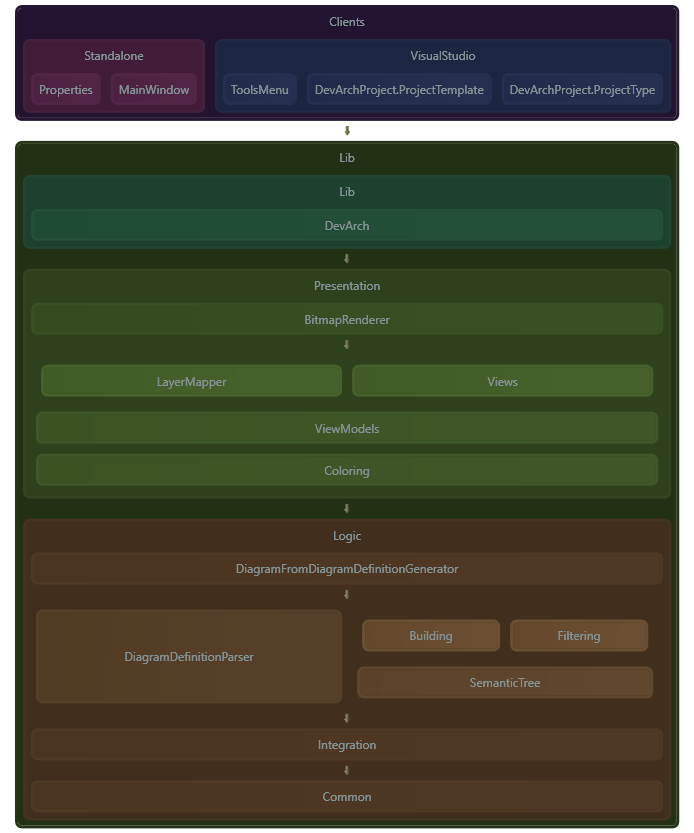
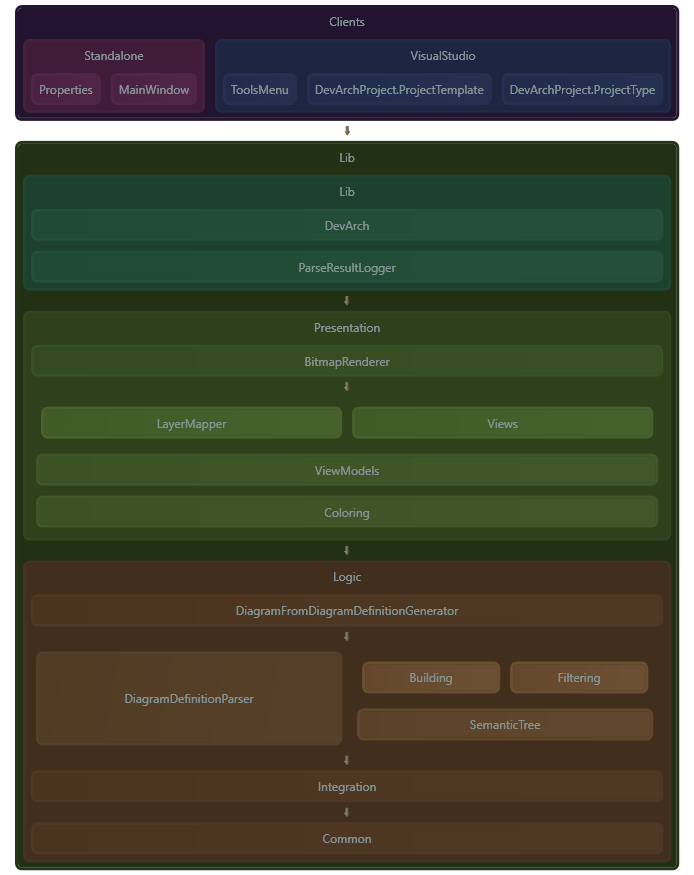
Writes generation results to output window

diff --git a/Lib/Logic/DiagramDefinitionParser.cs b/Lib/Logic/DiagramDefinitionParser.cs
@@ -1,6 +1,7 @@
 using System;
 using System.Collections.Generic;
 using System.Linq;
+using System.Threading.Tasks;
 using System.Xml;
 using EnvDTE;
 using Logic.Integration;
@@ -9,7 +10,7 @@ namespace Logic
 {
     public static class DiagramDefinitionParser
     {
-        public static IEnumerable<DiagramDefinition> GetDiagramDefinitionsFromSolution(AdvancedSolution solution)
+        public static IReadOnlyCollection<DiagramDefinitionParseResult> GetDiagramDefinitionsFromSolution(AdvancedSolution solution)
         {
             var archProjects = solution.FindArchProjects();
             if (archProjects.Count != 1) throw new NoArchProjectsFound();
@@ -19,36 +20,58 @@ namespace Logic
             var items =
                 projectItems.Where(d => d.Name.EndsWith(".diagramdefinition")).ToList();
 
-            var list = new List<DiagramDefinition>();
+            var list = new List<DiagramDefinitionParseResult>();
             foreach (var item in items)
             {
                 var path = item.FileNames[0];
                 var name = item.Name;
-                var definition = ParseDiagramDefinition(path, name);
-                //Insert directory before output path
-                definition.Output.Path =solution.Directory() + "\\" + definition.Output.Path;
-                list.Add(definition);
+                try
+                {
+                    var definition = ParseDiagramDefinition(path, name);
+                    //Insert directory before output path
+                    definition.Output.Path = solution.Directory() + "\\" + definition.Output.Path;
+                    list.Add(new DiagramDefinitionParseResult(definition));
+                }
+                catch (Exception e)
+                {
+                    list.Add(new DiagramDefinitionParseResult(new Exception(name + "- " + e.Message)));
+                }
             }
             return list;
+        }
+
+        public static XmlElement RequireTag(this XmlNode doc, string tagName)
+        {
+            var x = doc[tagName];
+            if(x == null)
+                throw new Exception($"Unable to find {tagName} tag");
+            return x;
         }
 
         private static DiagramDefinition ParseDiagramDefinition(string path, string name)
         {
             var xmlDoc = new XmlDocument();
             xmlDoc.Load(path);
-            var modelRoot = xmlDoc["Diagram"];
-            if (modelRoot == null)
-                throw new Exception("Unable to find diagram tag in diagram definition");
 
-            var scopeHolderNode = modelRoot["Scope"];
+            var modelRoot = xmlDoc.RequireTag("Diagram");
+            var scopeHolderNode = modelRoot.RequireTag("Scope");
+            var output = modelRoot.RequireTag("Output");
+            // Can be null
+            var filtersNode = modelRoot["Filters"]; 
+
+            // Dependency direction
             var dependencyAttributeValue = modelRoot.Attributes?.GetNamedItem("DependencyDirection")?.Value;
             var dependencyDown = true;
             if (dependencyAttributeValue != null)
                 dependencyDown = dependencyAttributeValue.Equals("Down");
+
+            // Scope
             var scope = ParseScope(scopeHolderNode);
-            var output = modelRoot["Output"];
+
+            // OutputSettings
             var outputSettings = ParseOutputSettings(output);
-            var filtersNode = modelRoot["Filters"];
+
+            // Filters
             var filters = new Filters();
             if (filtersNode?.ChildNodes != null)
             {
@@ -68,12 +91,13 @@ namespace Logic
             int number;
             int.TryParse(filter.InnerText, out number);
             if (fname == "RemoveTests") filters.RemoveTests = on;
-            if (fname == "RemoveSinglePaths") filters.RemoveSinglePaths = on;
-            if (fname == "RemoveExceptions") filters.RemoveExceptions = on;
-            if (fname == "FindNamingPatterns") filters.FindNamingPatterns = on;
-            if (fname == "MaxDepth") filters.MaxDepth = number;
-            if (fname == "MinMethods") filters.MinMethods = number;
-            if (fname == "MinReferences") filters.MinReferences = number;
+            else if (fname == "RemoveSinglePaths") filters.RemoveSinglePaths = on;
+            else if (fname == "RemoveExceptions") filters.RemoveExceptions = on;
+            else if (fname == "FindNamingPatterns") filters.FindNamingPatterns = on;
+            else if (fname == "MaxDepth") filters.MaxDepth = number;
+            else if (fname == "MinMethods") filters.MinMethods = number;
+            else if (fname == "MinReferences") filters.MinReferences = number;
+            else throw new Exception("Unrecognized filter: " + fname);
         }
 
         private static OutputSettings ParseOutputSettings(XmlNode output)
@@ -118,6 +142,26 @@ namespace Logic
             if (scope is NamedScope)
                 (scope as NamedScope).Name = scopeNode?.Attributes?[0].Value;
             return scope;
+        }
+    }
+
+    public struct DiagramDefinitionParseResult
+    {
+        public bool Succeed;
+        public DiagramDefinition Definition;
+        public Exception Exception;
+
+        public DiagramDefinitionParseResult(Exception exception)
+        {
+            Exception = exception;
+            Succeed = false;
+            Definition = null;
+        }
+        public DiagramDefinitionParseResult(DiagramDefinition definition)
+        {
+            Definition = definition;
+            Succeed = true;
+            Exception = null;
         }
     }
 

diff --git a/Lib/DevArch.cs b/Lib/DevArch.cs
@@ -1,7 +1,10 @@
 using System;
+using System.Collections.Generic;
 using System.Linq;
 using EnvDTE;
+using EnvDTE80;
 using Logic;
+using Logic.Common;
 using Logic.Integration;
 using Presentation;
 
@@ -14,13 +17,19 @@ namespace Lib
             var solution = new AdvancedSolution(enivorment);
             var modelGen = new DiagramFromDiagramDefinitionGenerator(solution);
             var modelDefs = modelGen.GetDiagramDefinitions();
-            foreach (var modelDef in modelDefs)
+            var resultLogger = new ParseResultLogger(enivorment,modelDefs);
+            resultLogger.PrintErrors();
+
+            var definitions = modelDefs.Where(x => x.Succeed).SelectList(x => x.Definition);
+            foreach (var modelDef in definitions)
             {
                 var tree = modelGen.GenerateDiagram(modelDef);
                 if (!tree.Childs.Any())
                     throw new NoClassesFoundException();
                 BitmapRenderer.RenderTreeToBitmap(tree,modelDef.DependencyDown, modelDef.Output);
+                resultLogger.PrintCreated(modelDef.Output.Path);
             }
+            resultLogger.PrintSuccess();
         }
 
         public static void RenderCompleteDiagramToView(_DTE enivorment,ref ArchView view)
@@ -30,6 +39,51 @@ namespace Lib
             var tree = modelGen.GenerateDiagram(DiagramDefinition.RootDefault);
             var viewModel = LayerMapper.TreeModelToArchViewModel(tree,true);
             view.Diagram.RenderModel(viewModel);
+        }
+    }
+
+    class ParseResultLogger
+    {
+        private readonly IReadOnlyCollection<DiagramDefinitionParseResult> _results;
+        private readonly OutputWindowPane _output;
+
+        public ParseResultLogger(_DTE environment,IReadOnlyCollection<DiagramDefinitionParseResult> results)
+        {
+            _results = results;
+            var dte2 = environment as DTE2;
+            if (dte2 == null)
+                return;
+
+            var outputWindow = dte2.ToolWindows.OutputWindow;
+            _output = outputWindow.OutputWindowPanes.Item("DevArch") ??
+                      outputWindow.OutputWindowPanes.Add("DevArch");
+            _output.Activate();
+            PrintLine("Generating diagrams...");
+        }
+
+        void PrintLine(string s)
+        {
+            _output.OutputString(s + "\n");
+        }
+
+        public void PrintErrors()
+        {
+            var errorNous = _results.Where(x => !x.Succeed);
+            foreach (var result in errorNous)
+                PrintLine("Error: " + result.Exception.Message);
+            PrintLine("------------------");
+        }
+
+        public void PrintCreated(string path)
+        {
+            PrintLine("Created " + path);
+        }
+        
+        public void PrintSuccess()
+        {
+            PrintLine("------------------");
+            PrintLine($"========== Diagrams: {_results.Count(x => x.Succeed)} Created, " +
+                      $"{ _results.Count(x => !x.Succeed)} not created ==========");
         }
     }
 

diff --git a/Lib/Logic/Building/ClassTreeBuilder.cs b/Lib/Logic/Building/ClassTreeBuilder.cs
@@ -1,6 +1,7 @@
 using System;
 using System.Collections.Generic;
 using System.Linq;
+using Logic.Common;
 using Logic.SemanticTree;
 using Microsoft.CodeAnalysis;
 
@@ -25,7 +26,7 @@ namespace Logic.Building
                         throw new Exception("Unable to find document: " + documentName);
                 }
 
-                var semanticModels = documents.Select(d => d.GetSemanticModelAsync().Result).ToList();
+                var semanticModels = documents.SelectList(d => d.GetSemanticModelAsync().Result);
                 var classes = SemanticModelWalker.GetClassesInModels(semanticModels);
                 if (!classes.Any())
                     continue;

diff --git a/Lib/Logic/Common/EnumerableExtensions.cs b/Lib/Logic/Common/EnumerableExtensions.cs
@@ -6,12 +6,17 @@ using System.Threading.Tasks;
 
 namespace Logic.Common
 {
-    static class EnumerableExtensions
+    public static class EnumerableExtensions
     {
         public static bool ContainsAnyFrom<T>(this IEnumerable<T> set, IEnumerable<T> set2)
         {
             return set.Intersect(set2).Any();
         }
+
+        public static IReadOnlyCollection<TResult> SelectList<TResult,TSource>(this IEnumerable<TSource> input,  Func<TSource,TResult> selector)
+        {
+            return input.Select(selector).ToList();
+        } 
 
 
         public static IEnumerable<T> Except<T>(this IEnumerable<T> set, T t)

diff --git a/Lib/Logic/DiagramFromDiagramDefinitionGenerator.cs b/Lib/Logic/DiagramFromDiagramDefinitionGenerator.cs
@@ -1,6 +1,5 @@
 using System.Collections.Generic;
 using System.Linq;
-using EnvDTE;
 using Logic.Building;
 using Logic.Filtering;
 using Logic.Integration;
@@ -16,7 +15,7 @@ namespace Logic
             _solution = solution;
         }
 
-        public IEnumerable<DiagramDefinition> GetDiagramDefinitions()
+        public IReadOnlyCollection<DiagramDefinitionParseResult> GetDiagramDefinitions()
         {
             return DiagramDefinitionParser.GetDiagramDefinitionsFromSolution(_solution);
         }
